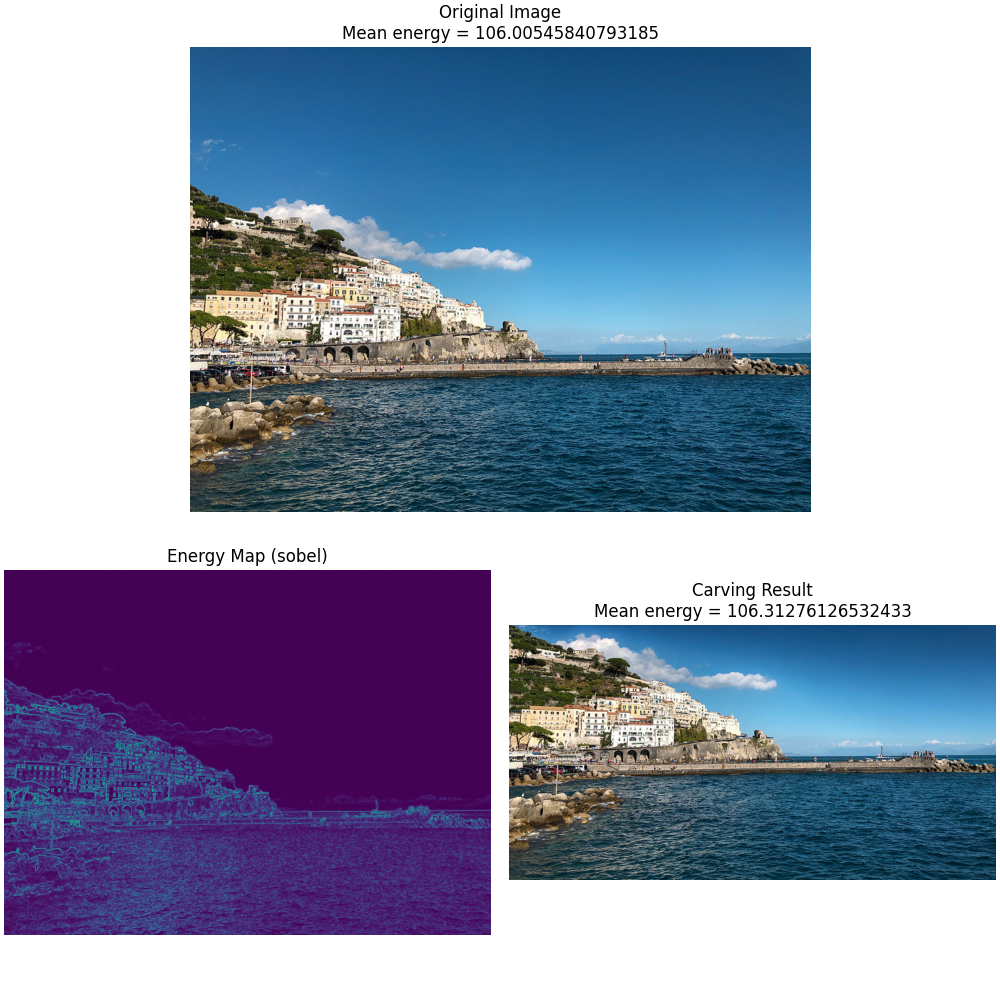
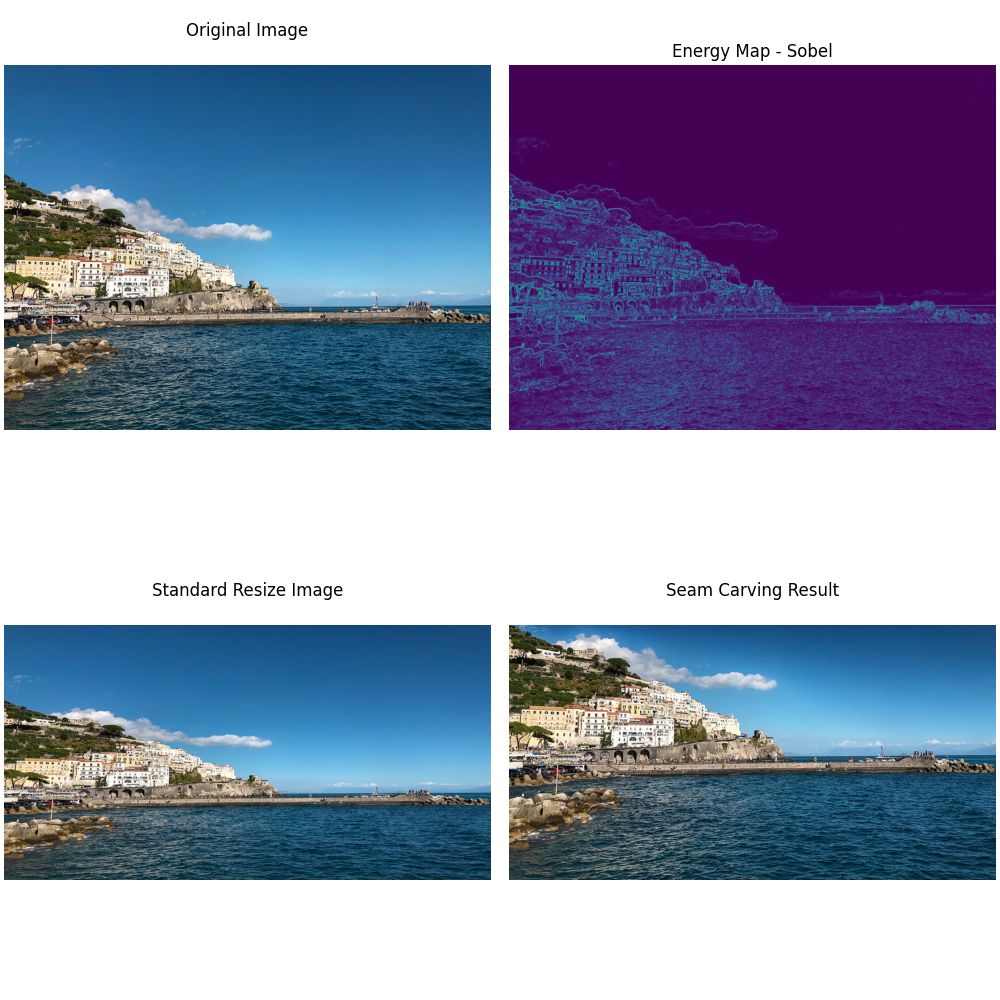
feat(sc): add standard resize function and update demo image

diff --git a/src/sc.py b/src/sc.py
@@ -29,7 +29,7 @@ plt.rcParams.update(rc)
 warnings.filterwarnings("ignore", category=Warning)
 warnings.filterwarnings("ignore", category=DeprecationWarning)
 
-
+# Seam carving calling function
 def resize(img, scale):
     """
     Defines the new image shape based on scale provided
@@ -43,8 +43,6 @@ def resize(img, scale):
     return img
 
 # Seam carving functions
-
-
 @jit
 def seamCarving(img):
     """
@@ -72,7 +70,6 @@ def seamCarving(img):
     # deletes the flagged pixels and resize the image to the new dimension
     img = img[mask].reshape((rows, columns - 1, 3))
     return img
-
 
 @jit
 def findSeam(img):
@@ -111,7 +108,6 @@ def findSeam(img):
 
     return M, backtrack
 
-
 def calculateEnergy(img):
     """
     Calculates the energy map using edge detection algorithms for backward energy
@@ -136,9 +132,24 @@ def calculateEnergy(img):
     return energy_map
 
 # Other functions
+def standardResize(img, scale, seam_orientation):
+    """
+    Resize the image without considering its content
+    """
+    if seam_orientation == 'h':
+        width = img.shape[1]
+        height = int(img.shape[0] * scale)
+        dsize = (width, height)
+        std_resize_image = cv2.resize(img, dsize)
+    elif seam_orientation == 'v':
+        width = int(img.shape[1]*scale)
+        height = img.shape[0]
+        dsize = (width, height)
+        std_resize_image = cv2.resize(img, dsize)
 
+    return std_resize_image
 
-def plotResult(img, out, energyFunction):
+def plotResult(img, out, std_resize_image, energyFunction):
     """
     Plot the original image with its mean energy, energy map and
     the resized image with its mean energy.
@@ -148,20 +159,31 @@ def plotResult(img, out, energyFunction):
     # Fix message blinking when hover
     fig.canvas.toolbar.set_message = lambda x: ""
 
-    plt.subplot(211)
+    plt.subplot(221)
     plt.imshow(img)
-    plt.title('Original Image\n'+'Mean energy = ' + str(np.mean(img)))
+    plt.title('Original Image\n')
+
+    plt.subplot(222)
+    plt.imshow(energyFunction(img))
+    plt.title('Energy Map - ' + (energyFunction.__name__).capitalize())
 
     plt.subplot(223)
-    plt.imshow(energyFunction(img))
-    plt.title('Energy Map (' + energyFunction.__name__ + ')')
+    plt.imshow(std_resize_image)
+    plt.title('Standard Resize Image\n')
 
     plt.subplot(224)
     plt.imshow(out)
-    plt.title('Carving Result\n'+'Mean energy = ' + str(np.mean(out)))
+    plt.title('Seam Carving Result\n')
 
     plt.show()
 
+    img_mean_energy = np.mean(img)
+    std_mean_energy = np.mean(std_resize_image)
+    out_mean_energy = np.mean(out)
+
+    print(str(img.shape[0]) + "x" + str(img.shape[1]))
+    print(str(std_resize_image.shape[0]) + "x" + str(std_resize_image.shape[1]))
+    print(str(out.shape[0]) + "x" + str(out.shape[1]))
 
 # Main program
 if __name__ == '__main__':
@@ -191,6 +213,7 @@ if __name__ == '__main__':
     IMG_PATH = "../images/" + IMG_NAME
 
     input_image = cv2.cvtColor(cv2.imread(IMG_PATH), cv2.COLOR_BGR2RGB)
+    std_resize_image = standardResize(input_image, SCALE, SEAM_ORIENTATION)
 
     # Instantiate the energy mapping classes
     be = BackwardEnergy(input_image, SEAM_ORIENTATION)
@@ -229,7 +252,7 @@ if __name__ == '__main__':
 
             # Plot the result if requested by the user
             if args["plot"]:
-                plotResult(input_image, out, energyFunction)
+                plotResult(input_image, out, std_resize_image , energyFunction)
 
             print("Seam carving with energy energy mapping function "
                   + energyFunction.__name__ + "() completed.")
@@ -257,7 +280,7 @@ if __name__ == '__main__':
 
         # Plot the result if requested by the user
         if args["plot"]:
-            plotResult(input_image, out, energyFunction)
+            plotResult(input_image, out, std_resize_image, energyFunction)
 
         print("Seam carving with energy mapping function "
               + energyFunction.__name__ + " completed.")
